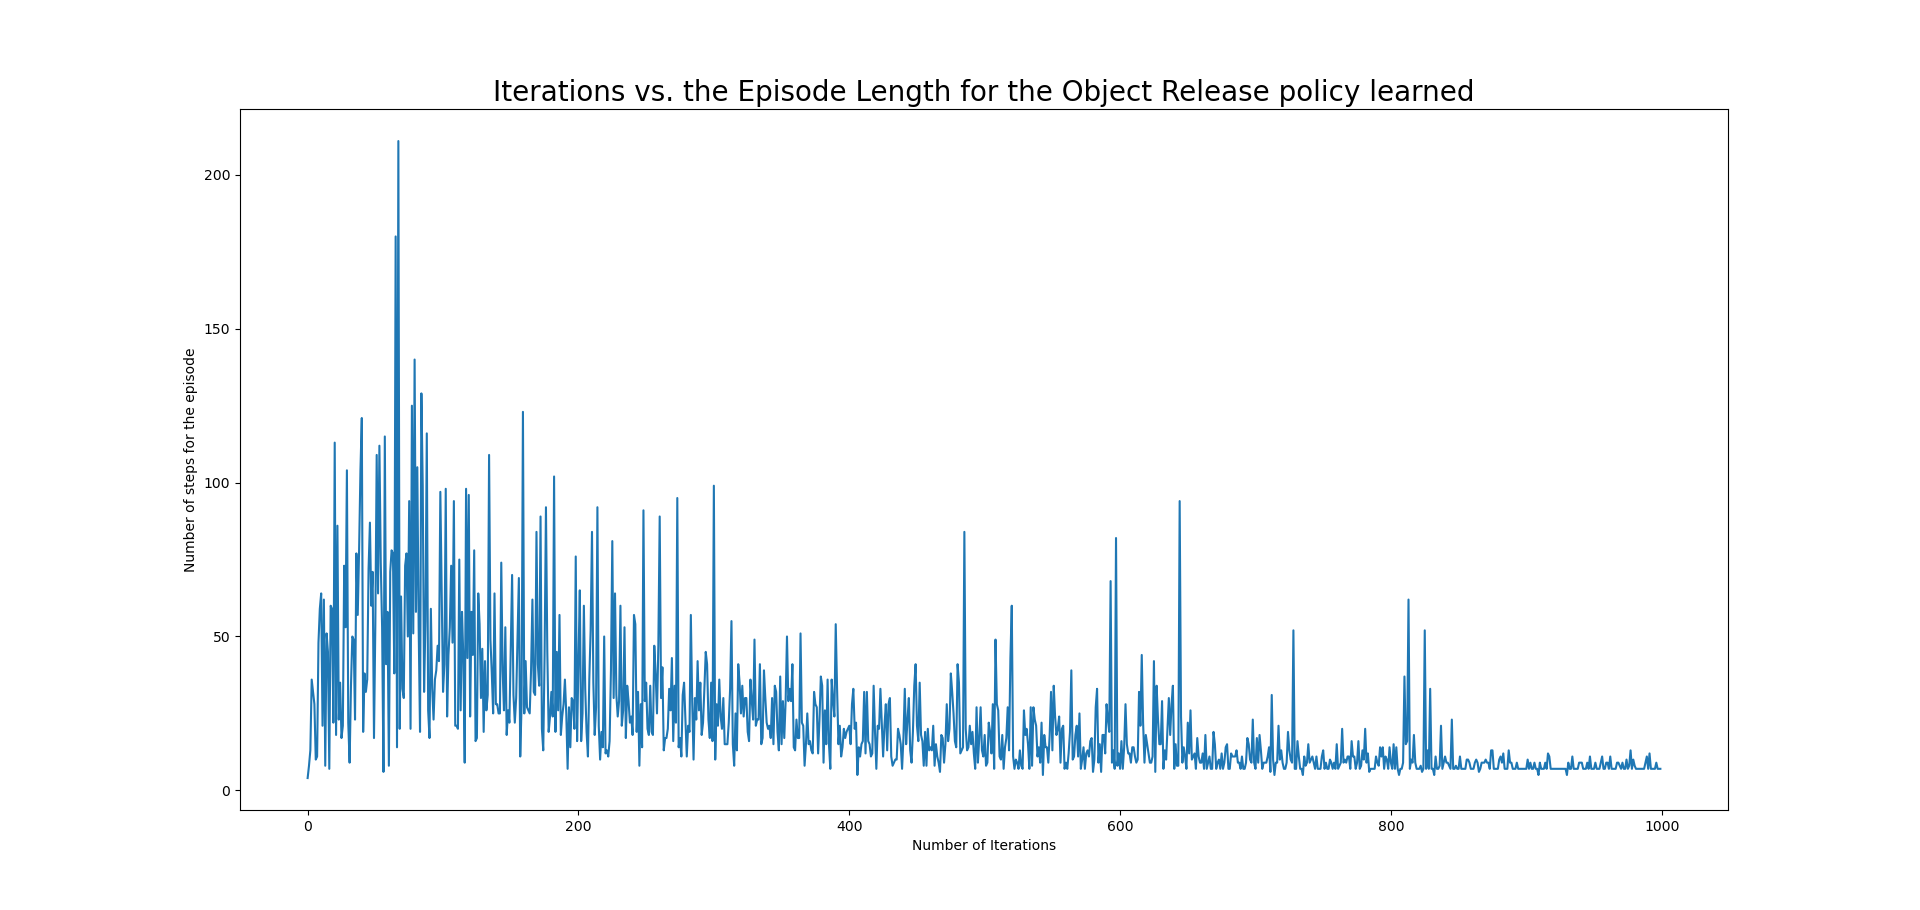
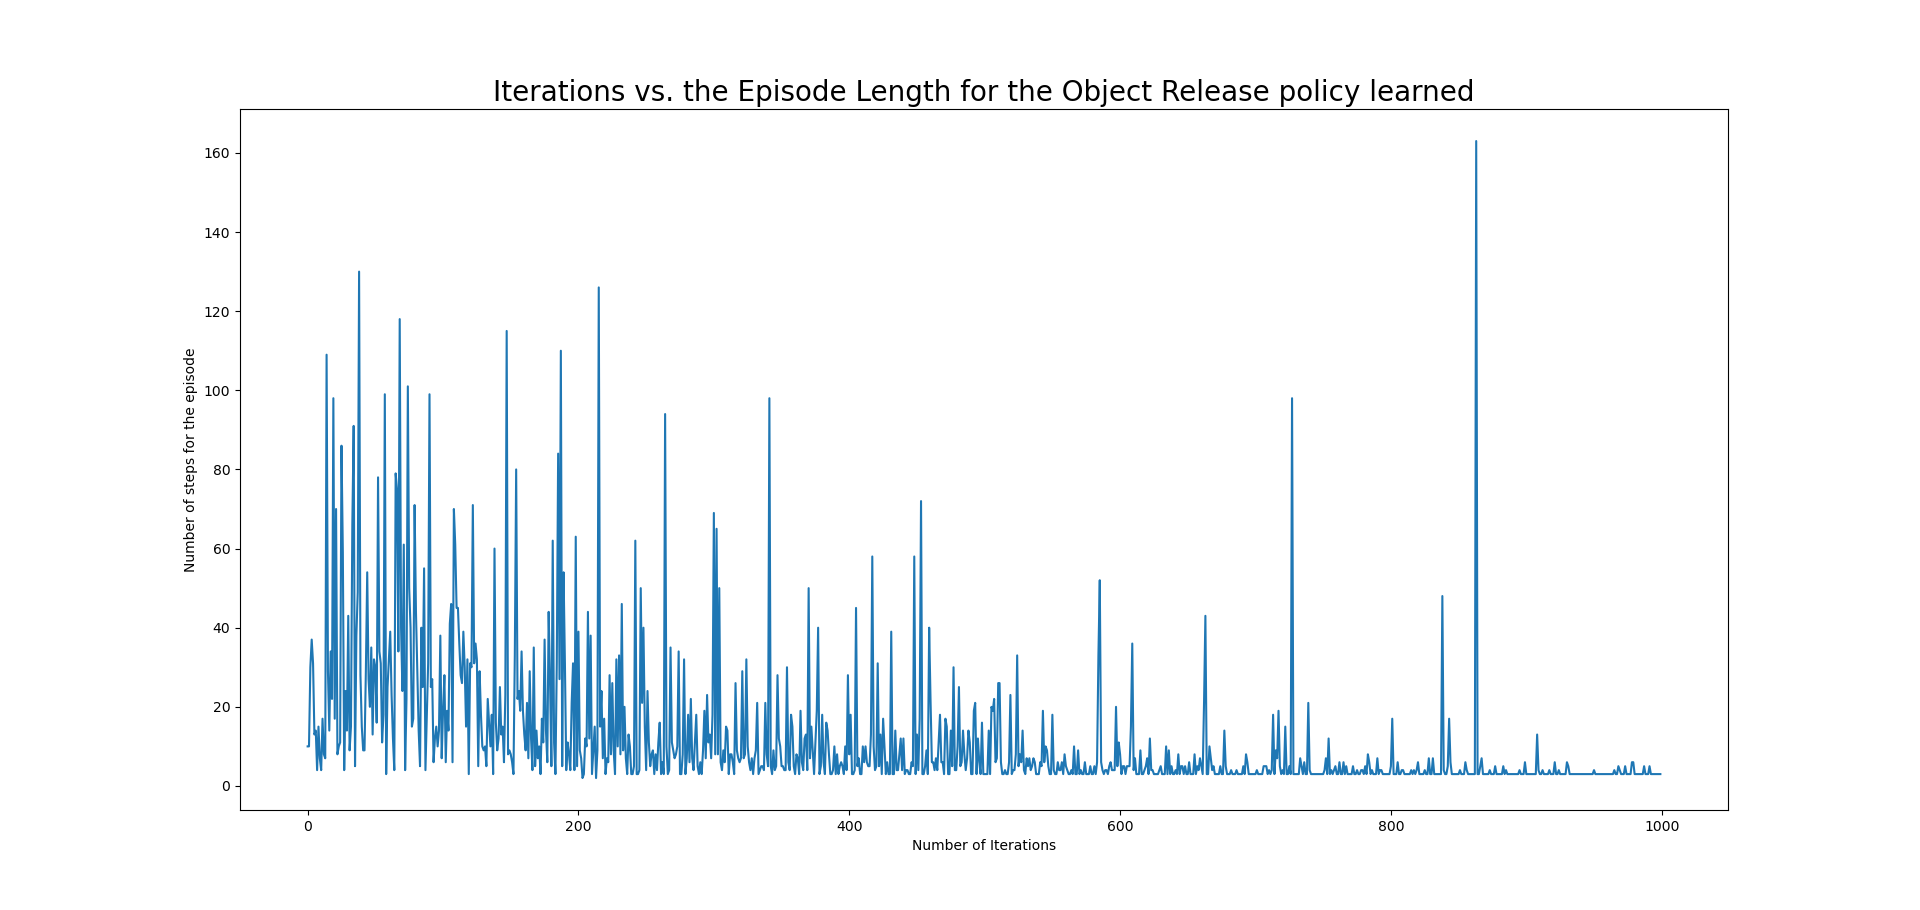
Plotted Final Graphs for the Grasping and Release policy.

Changed region(s): [[0.1562, 0.2769, 0.875, 0.8615], [0.0938, 0.6769, 0.125, 0.7077], [0.0938, 0.3385, 0.125, 0.3692]]

diff --git a/graph.py b/graph.py
@@ -16,8 +16,8 @@ alpha = 0.1
 policy = "Release"
 objectType = "Sphere"
 actions = 10
-#path = cwd + '/Release_RewardLog.csv'
 path = cwd + '/Release_EpisodeLog.csv'
+#path = cwd + '\Grasp_RewardLog.csv'
 data = np.loadtxt(path, delimiter=',', usecols = (0,1))
 plt.xlabel("Number of Iterations")
 plt.ylabel("Number of steps for the episode")
@@ -25,4 +25,4 @@ plt.ylabel("Number of steps for the episode")
 title = f"Iterations vs. the Episode Length for the Object {policy} policy learned"
 plt.title(title, fontsize=20)
 plt.plot(data[:,0],data[:,1])
-plt.savefig(cwd + '/Graphs/Grasping_Reward_Graph.png')
+#plt.savefig(cwd + '/Graphs/Grasping_Reward_Graph.png')
